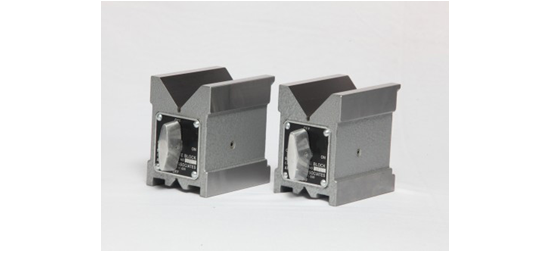
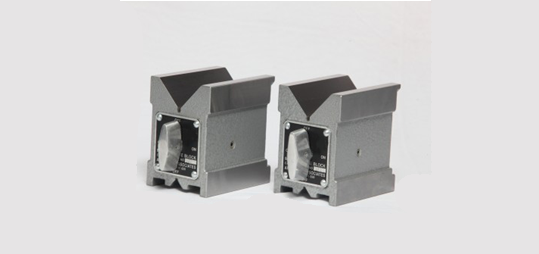
finished of 3rd product section #imagefixation

diff --git a/products/magnetic products/13/index.html b/products/magnetic products/13/index.html
@@ -110,7 +110,7 @@
             <div class="image-holder">
                 <div class="row">
                     <div class="col-lg-12">
-                        <img src="images/four.png" alt="product image" style="padding: 0px !important">
+                        <img src="images/four.jpg" alt="product image" style="padding: 0px !important">
                     </div>
                     <!--<div class="col-lg-5">
     <img class="ed-image" src="images/one-ed.png" alt="ed image">
@@ -353,10 +353,10 @@
                                 </td>
                             </tr>
                             <tr>
-                                <td width="11%">
+                                <td width="11%" rowspan="2" >
                                     <p>15A.</p>
                                 </td>
-                                <td colspan="2" width="63%">
+                                <td colspan="2" width="63%" rowspan="2" >
                                     <p>MAG d- MAG WITH VARIABLE CONTROL UNIT</p>
                                 </td>
                                 <td width="25%">
@@ -364,21 +364,15 @@
                                 </td>
                             </tr>
                             <tr>
-                                <td width="11%">
-                                    <p> </p>
-                                </td>
-                                <td colspan="2" width="63%">
-                                    <p> </p>
-                                </td>
                                 <td width="25%">
                                     <p>Upto 1500L 3 Amp.</p>
                                 </td>
                             </tr>
                             <tr>
-                                <td width="11%">
+                                <td width="11%" rowspan="2" style="background-color: white">
                                     <p>15B.</p>
                                 </td>
-                                <td colspan="2" width="63%">
+                                <td colspan="2" width="63%" rowspan="2" style="background-color: white">
                                     <p> MAG d- MAG WITH VARIABLE CONTROL UNIT &amp; BATTERY BACK UP (20MIN) </p>
                                 </td>
                                 <td width="25%">
@@ -386,12 +380,6 @@
                                 </td>
                             </tr>
                             <tr>
-                                <td width="11%">
-                                    <p> </p>
-                                </td>
-                                <td colspan="2" width="63%">
-                                    <p> </p>
-                                </td>
                                 <td width="25%">
                                     <p>Upto 1500L 3 Amp.</p>
                                 </td>

diff --git a/products/magnetic products/2/index.html b/products/magnetic products/2/index.html
@@ -107,10 +107,10 @@
 
     <section id="product">
         <div class="container">
-            <div class="image-holder">
+            <div class="image-holder" style="background-color: #f2f2f2;">
                 <div class="row">
                     <div class="col-lg-12">
-                        <img src="images/four.png" alt="product image" style="padding: 0px !important">
+                        <img src="images/four.jpg" alt="product image" style="padding: 0px !important">
                     </div>
                     <!--<div class="col-lg-5">
     <img class="ed-image" src="images/one-ed.png" alt="ed image">

diff --git a/products/magnetic products/3/index.html b/products/magnetic products/3/index.html
@@ -107,10 +107,10 @@
 
     <section id="product">
         <div class="container">
-            <div class="image-holder">
+            <div class="image-holder" style="background-color: #e6e4e5;">
                 <div class="row">
                     <div class="col-lg-12">
-                        <img src="images/four.png" alt="product image" style="padding: 0px !important">
+                        <img src="images/four.jpg" alt="product image" style="padding: 0px !important">
                     </div>
                     <!--<div class="col-lg-5">
     <img class="ed-image" src="images/one-ed.png" alt="ed image">

diff --git a/products/magnetic products/5/index.html b/products/magnetic products/5/index.html
@@ -107,10 +107,10 @@
 
     <section id="product">
         <div class="container">
-            <div class="image-holder">
+            <div class="image-holder" style="background-color: #f3f1f4;">
                 <div class="row">
                     <div class="col-lg-12">
-                        <img src="images/four.png" alt="product image" style="padding: 0px !important">
+                        <img src="images/four.jpg" alt="product image" style="padding: 0px !important">
                     </div>
                     <!--<div class="col-lg-5">
     <img class="ed-image" src="images/one-ed.png" alt="ed image">

diff --git a/products/magnetic products/7/index.html b/products/magnetic products/7/index.html
@@ -107,10 +107,10 @@
 
     <section id="product">
         <div class="container">
-            <div class="image-holder">
+            <div class="image-holder" style="background-color: #e6e6e8">
                 <div class="row">
                     <div class="col-lg-12">
-                        <img src="images/four.png" alt="product image" style="padding: 0px !important">
+                        <img src="images/four.jpg" alt="product image" style="padding: 0px !important">
                     </div>
                     <!--<div class="col-lg-5">
     <img class="ed-image" src="images/one-ed.png" alt="ed image">

diff --git a/products/magnetic products/6/index.html b/products/magnetic products/6/index.html
@@ -109,8 +109,8 @@
         <div class="container">
             <div class="image-holder">
                 <div class="row">
-                    <div class="col-lg-12">
-                        <img src="images/four.png" alt="product image" style="padding: 0px !important">
+                    <div class="col-lg-12" style="background-color: #e3e3e3;">
+                        <img src="images/four.jpg" alt="product image" style="padding: 0px !important">
                     </div>
                     <!--<div class="col-lg-5">
     <img class="ed-image" src="images/one-ed.png" alt="ed image">

diff --git a/products/magnetic products/10/index.html b/products/magnetic products/10/index.html
@@ -107,10 +107,10 @@
 
     <section id="product">
         <div class="container">
-            <div class="image-holder">
+            <div class="image-holder" style="background-color: #ebebeb;">
                 <div class="row">
                     <div class="col-lg-12">
-                        <img src="images/four.png" alt="product image" style="padding: 0px !important">
+                        <img src="images/noimage.jpg" alt="product image" style="padding: 0px !important">
                     </div>
 
                 </div>

diff --git a/products/magnetic products/11/index.html b/products/magnetic products/11/index.html
@@ -110,7 +110,7 @@
             <div class="image-holder">
                 <div class="row">
                     <div class="col-lg-12">
-                        <img src="images/four.png" alt="product image" style="padding: 0px !important">
+                        <img src="images/four.jpg" alt="product image" style="padding: 0px !important">
                     </div>
                     <!--<div class="col-lg-5">
     <img class="ed-image" src="images/one-ed.png" alt="ed image">

diff --git a/products/magnetic products/9/index.html b/products/magnetic products/9/index.html
@@ -110,7 +110,7 @@
             <div class="image-holder">
                 <div class="row">
                     <div class="col-lg-12">
-                        <img src="images/four.png" alt="product image" style="padding: 0px !important">
+                        <img src="images/four.jpg" alt="product image" style="padding: 0px !important">
                     </div>
                     <!--<div class="col-lg-5">
     <img class="ed-image" src="images/one-ed.png" alt="ed image">

diff --git a/products/inspection_equipments/3/index.html b/products/inspection_equipments/3/index.html
@@ -97,7 +97,7 @@
         <div class="container">
             <div class="jumbotron jumbotron-fluid">
                 <div class="container">
-                    <h1>CAST IRON BENCH CENTRE <strong>&</strong> RATCHET PIPE THREADER (BSPT)
+                    <h1>CAST IRON BENCH CENTRE <strong>&amp;</strong> RATCHET PIPE THREADER (BSPT)
                     </h1>
                 </div>
             </div>

diff --git a/products/magnetic products/1/index.html b/products/magnetic products/1/index.html
@@ -107,7 +107,7 @@
 
     <section id="product">
         <div class="container">
-            <div class="image-holder">
+            <div class="image-holder" style="background-color: #e6e4e5;">
                 <div class="row">
                     <div class="col-lg-12">
                         <img src="images/four.png" alt="product image" style="padding: 0px !important">
